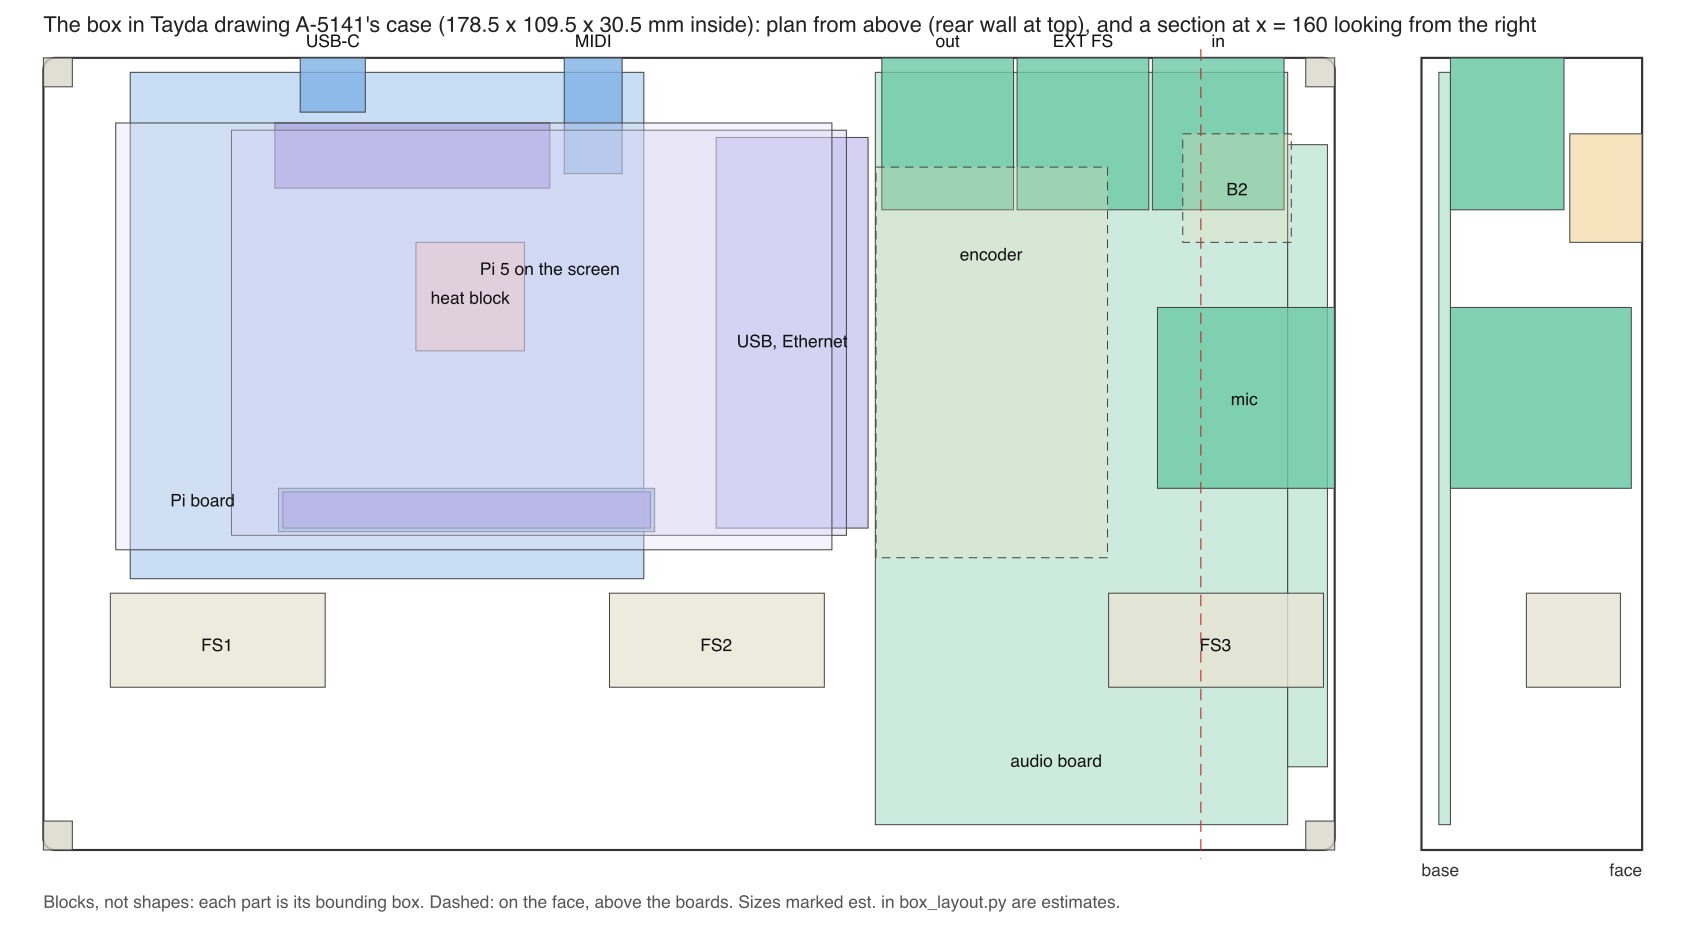
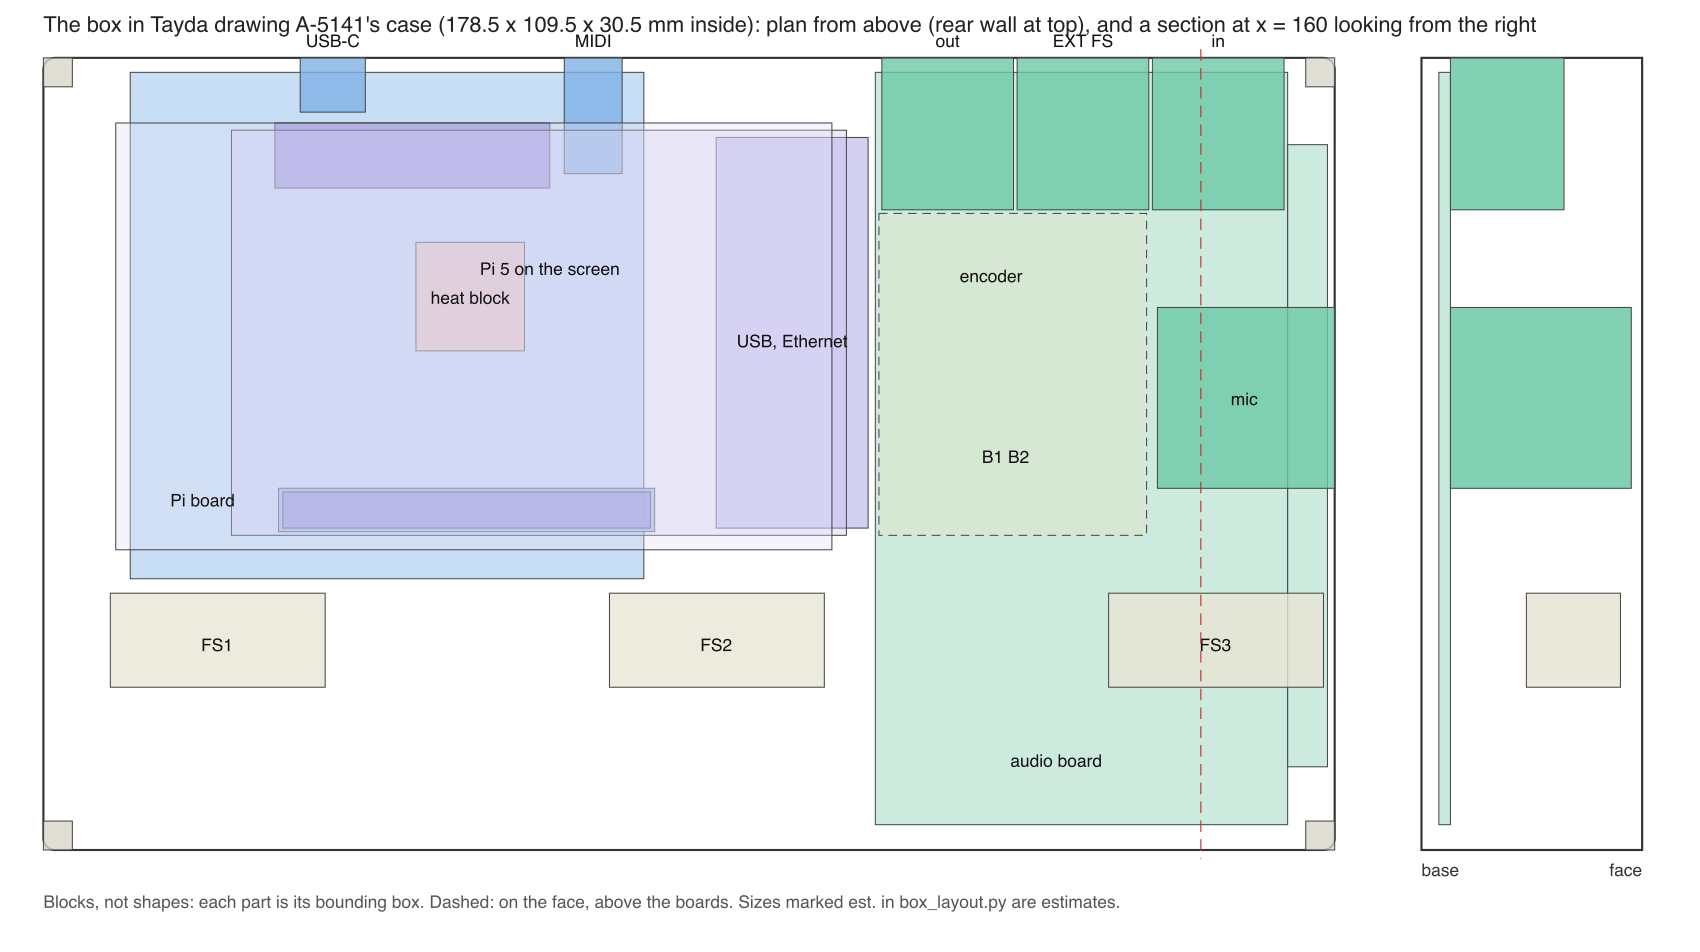
box: board-mounted buttons; the encoder and flat-cable sockets chosen
The owner chose board-mounted buttons. The encoder is Bourns
PEC11R-4215F-S0024, because the Alps EC11E types have no threaded bush
to hold the control board. The control board moves behind the rear
sockets, which are too tall to sit under it.

diff --git a/enclosure/src/box_layout.py b/enclosure/src/box_layout.py
@@ -124,11 +124,13 @@ def build(name):
              H - 3.0, "fs", "#e8e4d6", "13 mm body with its top 3 mm below the face; lugs sideways")
 
     # --- the controls on the face -------------------------------------------------------
-    ENC = (131.1, 27.1)                                    # the owner's position
-    part("control board and encoder", ENC[0] - 16, ENC[0] + 16, ENC[1] - 12, ENC[1] + 42,
-         H - 9.6, H, "control", "#f6dfb4", "board 8.1 below the face, EC11 body above it; est.")
-    part("button 2", 157.5, 172.5, 10.5, 25.5, H - 10.0, H, "control", "#f6dfb4",
-         "10 mm deep; above the guitar socket")
+    # One board, held by the encoder's nut: Bourns PEC11R-4215F-S0024 (M7 bush, body about
+    # 7 mm behind the face, pins 1.9 mm through the board), and two board-mounted buttons in
+    # front of it (the owner, 2026-11-14).  The board starts behind the rear sockets and
+    # stops short of the mic socket, so nothing of it is above either.  Positions are a
+    # proposal: encoder at (131.1, 30), buttons at (125, 55) and (141, 55).
+    part("control board and its parts", 115.5, 152.5, 21.5, 66.0, H - 10.5, H, "control",
+         "#f6dfb4", "board 7 mm below the face; pin ends 1.9 mm below it")
 
 
 # Pairs that are meant to touch or pass through each other.
@@ -204,8 +206,7 @@ def svg():
     labels = [("Pi 5 on the screen", 70, 30), ("Pi board", 22, 62), ("heat block", 59, 34),
               ("USB-C", 40, -1.5), ("MIDI", 76, -1.5), ("out", 125, -1.5), ("EXT FS", 143.7, -1.5),
               ("in", 162.4, -1.5), ("mic", 166, 48), ("audio board", 140, 98),
-              ("encoder", 131, 28), ("FS1", 24, 82), ("FS2", 93, 82), ("FS3", 162, 82),
-              ("B2", 165, 19), ("USB, Ethernet", 103.5, 40)]
+              ("encoder", 131, 31), ("B1  B2", 133, 56), ("FS1", 24, 82), ("FS2", 93, 82), ("FS3", 162, 82), ("USB, Ethernet", 103.5, 40)]
     for s, lx, ly in labels:
         o.append(f'<text x="{n(ox + lx * S)}" y="{n(oy + ly * S)}" font-size="12" '
                  f'text-anchor="middle" fill="#111">{s}</text>')

diff --git a/docs/box-design.md b/docs/box-design.md
@@ -54,7 +54,7 @@ extra screw holes for them.
 |---|---|---|---|
 | **Audio board** | Rear right and the right end of the front strip: about 60 × 104 mm (x 112–172, y 2–106), near the base plate | The three ¼″ sockets' nuts on the rear wall and the mic socket's two screws on the right wall | Guitar in, EXT FS and stereo out on the rear wall; the mic combo socket on the right wall; the guitar buffer, the mic preamp, the codec (TAC5212), the output stage, the bypass relay, the analogue supplies. Nothing digital but the codec's own lines |
 | **Pi board** | Under the Pi, as a HAT: about 71 × 71 mm (x 12–83, y 2–73) | The Pi's 40-pin header and the Pi's mounting holes | The USB-C power socket and the MIDI 3.5 mm socket on the rear wall; the RP2350 with its flash and crystal; the MIDI optocoupler; the HAT+ ID EEPROM; the plugs for the footswitches, the control board and the link. A cut-out under the Pi's processor for the heat block |
-| **Control board** | Under the face, rear right, above the audio board | The encoder's nut | The encoder and the two buttons, and one cable to the Pi board |
+| **Control board** | Under the face, rear right, behind the rear sockets: 37 × 44.5 mm (x 115.5–152.5, y 21.5–66), 7 mm below the face | The encoder's nut | The encoder and the two buttons, and one flat cable to the Pi board |
 
 - **The link** between the Pi board and the audio board is one short flat cable across the front
   of the Pi: the audio clocks and data (I2S), I2C, 5 V, 3.3 V, ground, the two EXT FS lines and
@@ -222,7 +222,8 @@ The owner agreed the concept as proposed:
 5. EXT FS as a ¼″ socket between out and in.
 6. The Pi 5 stays; the Compute Module is for later.
 
-Also his: the footswitches stay where the case drawing has them, sunk 16 mm.
+Also his: the footswitches stay where the case drawing has them, sunk 16 mm; and the two
+buttons are **board-mounted**, on the control board, not panel buttons on leads.
 
 ## The model so far
 
@@ -244,10 +245,12 @@ Hammond's case, in Tayda's, and in the prototype as measured.
   x = 125.0, 143.7 and 162.4. That leaves 1.9 mm to the Pi's Ethernet socket and 1.3 mm to
   Hammond's corner pillar (2.5 mm in Tayda's case). A slimmer socket would ease it, but none is
   stocked where the boards are assembled.
-- **The socket is 15.7 mm tall**, not 12, so its top is at 19.7 mm. The control board above the
-  out and EXT FS sockets clears them by 0.7 mm in a 30 mm case, 1.2 mm in Tayda's and 2.7 mm in
-  Hammond's as drawn. The second button, 10 mm deep, clears the guitar socket by 0.3, 0.8 and
-  2.3 mm. A shallower button, or the button moved off the socket, removes the tightest of these.
+- **The socket is 15.7 mm tall**, not 12, so its top is at 19.7 mm, too close under the face
+  for a board to sit above it. So **the control board is behind the rear sockets**, not over
+  them: 37 × 44.5 mm (x 115.5–152.5, y 21.5–66), 7 mm below the face, with the encoder at
+  (131, 30) and the two buttons side by side in front of it at (125, 55) and (141, 55). It
+  clears the sockets by 0.5 mm and the mic socket by 1.5 mm or more. These positions are a
+  proposal; the owner's were for the prototype's panel buttons.
 - **The Pi board stops at x = 83**, which leaves 1.1 mm to Hammond's middle pillar.
 - **The MIDI socket fits under the Pi**: 8 mm tall in an 11 mm gap, 2 mm to the side of the Pi's
   HDMI sockets.
@@ -267,32 +270,44 @@ The parts that set the case's holes, each from its maker's drawing and found at 
 | Guitar in, EXT FS, stereo out | Neutrik NMJ6HCD2: ¼″ stereo, switched, board-mounted, chrome ferrule and nut from outside. 18.2 × 15.7 mm, 20.6 mm behind the wall, axis 7.53 mm above the board | C368502 | 795 | $3.27 | ⌀11.4 mm, its centre 11.5 mm above the base plate |
 | Mic | Neutrik NCJ6FA-H: combo XLR and ¼″, board-mounted, behind the wall | C368458 | 667 | $3.06 | ⌀22 mm and two ⌀3.2 mm, its centre 16.5 mm above the base plate |
 | MIDI in | A PJ-392-type 3.5 mm stereo socket with a threaded bush and nut (HOOYA PJ-392A, or CAX PJ-392-AG). Drawing still to read | C2939164, or C49274303 | 346, 826 | $0.37, $0.32 | ⌀6 mm (to confirm) |
+| Encoder | Bourns PEC11R-4215F-S0024: 24 detents, 24 pulses, push switch, 15 mm flatted shaft, M7 threaded bush with its nut and washer. Body 12.5 × 13.4 mm, about 7 mm behind the face | C143790 | 4,186 | $2.33 | ⌀7.2 mm |
+| The two flat cables' sockets (four) | JUSHUO AFA07-S16FCC-00: 16-way, 1.0 mm pitch, 2.5 mm high, slide lock, for bought 16-way flat cables | C13744 | 19,214 | $0.11 | none |
 | Footswitch leads, on the Pi board | JST S2B-XH-A, side entry, 6.1 mm high, for bought two-wire XH leads | C157931 | 66,327 | $0.07 | none |
 
 One ¼″ part serves all three places. Whether its chrome ferrule is joined to its sleeve contact
 is not on the drawing and is checked with a meter on the first one, since the guitar socket is
 meant to be the one bond to the case.
 
+The encoder is the part that holds the control board, so it needs a threaded bush. The Alps
+EC11E types LCSC stocks in thousands have none (Alps' drawing shows a plain 7 mm boss), which
+rules them out. The Bourns part gives one pulse per detent; the KY-040 in the prototype gives 20,
+so the firmware's count changes by one constant.
+
 Still to choose, with what is known:
 
-- **USB-C power socket.** Ordinary board-edge sockets (LCSC has them in hundreds of thousands)
-  are 7.35 mm long and overhang the board by about a millimetre, which leaves the socket's mouth
-  about a millimetre inside a 2.5 mm wall. A USB-C plug needs the mouth nearly flush with the
-  outside. So this wants a long-bodied socket, and a ⌀9.5–10 mm round hole in place of a slot.
-- **The encoder.** Alps EC11E types are stocked in thousands (C361167, C370970, C202365 among
-  them); which one depends on shaft length, detents and bush, read from Alps' drawing.
-- **The two buttons.** Either the owner's 15 mm panel buttons on bought leads, or lit switches on
-  the control board that poke through round holes. The owner's taste decides; see the model's
-  note on depth above.
-- **The flat cables and their connectors** (Pi board to audio board, Pi board to control board),
-  and **the 40-pin socket** under the Pi. Common parts; not yet picked by number.
+- **USB-C power socket.** Ordinary board-edge sockets are 7.35 mm long and overhang the board
+  by about a millimetre, which leaves the socket's mouth about a millimetre inside a 2.5 mm
+  wall. A USB-C plug needs the mouth nearly flush with the outside. Candidate: SHOU HAN TYPE-C
+  16PIN L8.35 (C5379909, 14,835 in stock), a millimetre longer; its drawing is still to read.
+  The hole is round, ⌀9.5–10 mm, in place of a slot.
+- **The two buttons.** Board-mounted and lit, their tops 10.5–11 mm above the control board
+  (7 mm to the face, 2.5 mm of wall, a millimetre proud), through round holes. Lit switches
+  that tall are thinly stocked at LCSC (E-Switch's TL1265 at 70 pieces, ROCPU's TPB02 in tens),
+  so the likely answer is a plain tall switch with a translucent cap and a light beside it on
+  the board. To settle with a sample in the test case.
+- **The 40-pin socket** under the Pi: a standard 8.5 mm part; the one first looked up (C50982)
+  is out of stock.
+
+**A risk the test case answers.** The Pi hangs from the screen, the Pi board from the Pi, and the
+Pi board's two sockets must meet their holes in the rear wall. The chain's tolerance may be a
+millimetre. The USB-C hole is round and oversize for that reason; the MIDI socket's nut then
+fixes the board, and the screen must be free to settle behind its window before it is fixed.
 
 ## Needed from the owner
 
 - **For the heat test:** the gap between the top of the Pi's heatsink and the base plate, by the
   Blu-Tack method in "Heat". Then thermal pad of about that thickness, or a piece of aluminium
   bar and a thinner pad; and vip switched on. The logging is run from a session.
-- **The two buttons:** keep the panel buttons, or board-mounted ones through round holes.
 
 ## Plan
 
@@ -320,6 +335,8 @@ case, the firmware and the device configuration are here.
   [Tayda: 1590DD drawing A-5141](https://www.taydaelectronics.com/datasheets/files/TAYDA-A-5141.pdf)
   and [its listing](https://www.taydaelectronics.com/hardware-tools/enclosures/1590dd-style/1590dd-style-aluminum-diecast-enclosure.html)
 - [Neutrik NMJ6HCD2](https://www.neutrik.com/en/product/nmj6hcd2) and its [drawing](https://www.neutrik.com/media/8582/download/st-nmj6hcd2.PDF?v=3)
+- [Bourns PEC11R datasheet](https://www.bourns.com/docs/product-datasheets/pec11r.pdf),
+  [Alps EC11E15244G1](https://tech.alpsalpine.com/e/products/detail/EC11E15244G1/)
 - [JLCCNC: enclosure machining guide](https://jlccnc.com/blog/cnc-enclosure-guide)
 - [Raspberry Pi: heating and cooling Raspberry Pi 5](https://www.raspberrypi.com/news/heating-and-cooling-raspberry-pi-5/),
   [Akasa Pi-5 Pro review](https://bret.dk/akasa-pi-5-pro-raspberry-pi-5-case-review/),
